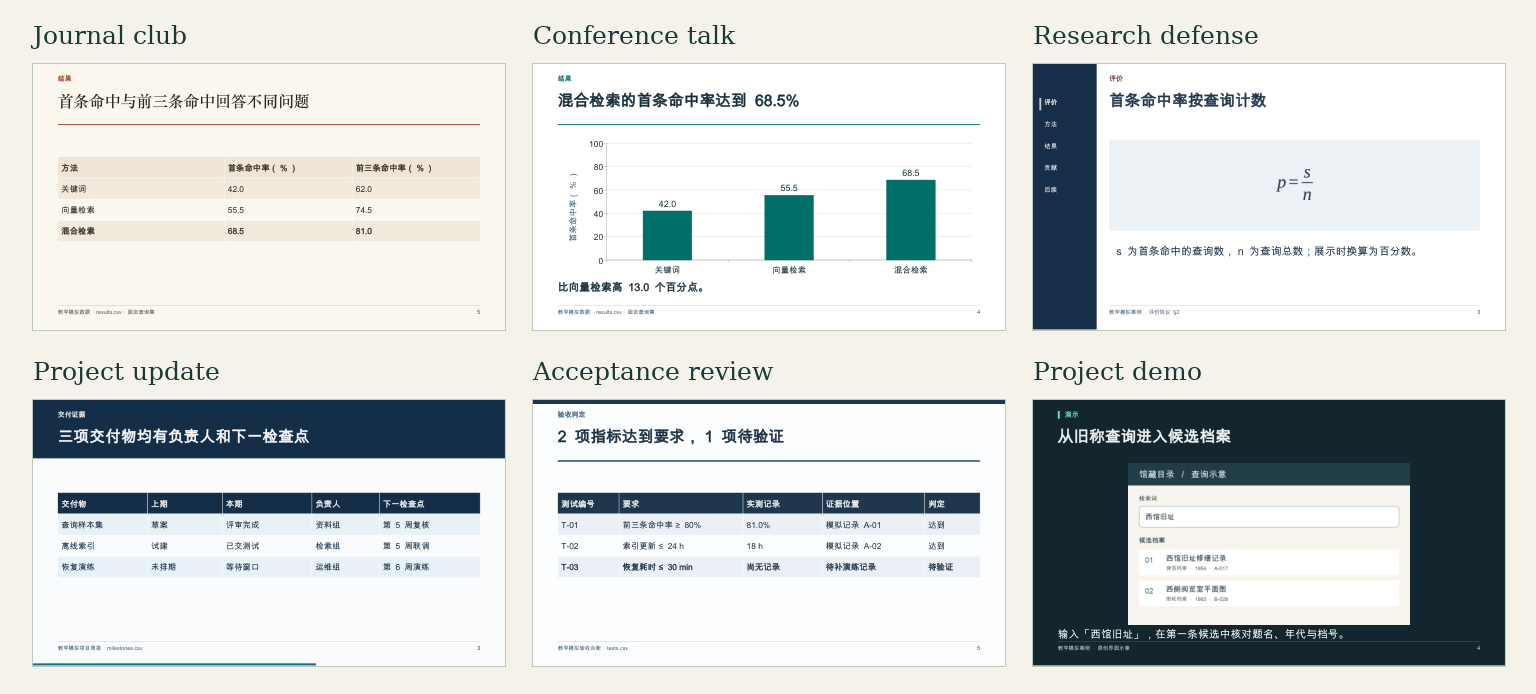
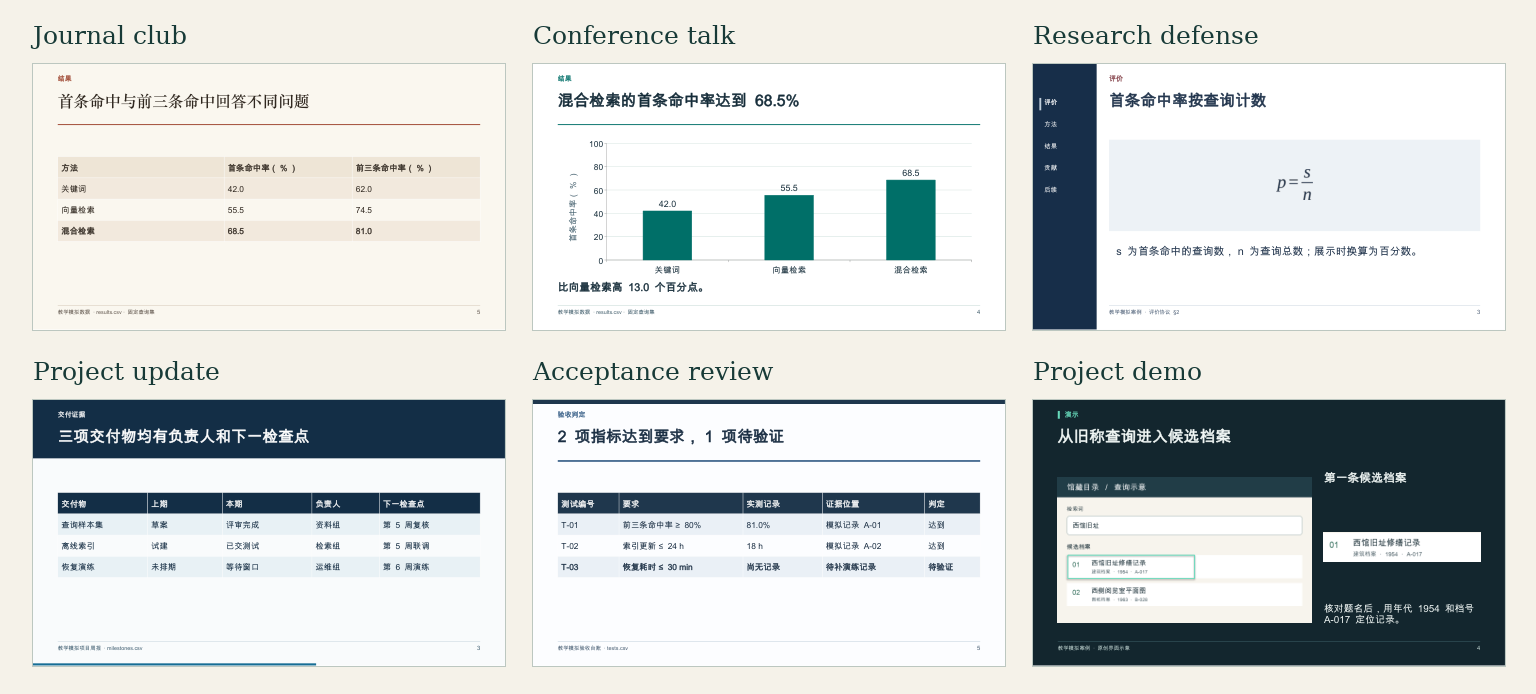
Restore visual comparisons and traceable detail views to research talks

Changed region(s): [[0.6875, 0.6657, 0.9688, 0.938]]

diff --git a/research-deck/scripts/render.py b/research-deck/scripts/render.py
@@ -36,6 +36,8 @@ LAYOUTS = (
     "contrast",
     "process",
     "figure",
+    "detail",
+    "evidence_pair",
     "video",
     "chart",
     "table",
@@ -181,6 +183,37 @@ def image_contain(slide, buf, x, y, w, h, alt):
     pic = slide.shapes.add_picture(buf, *contained_box(buf, x, y, w, h))
     pic._element.nvPicPr.cNvPr.set("descr", alt)
     return pic
+
+
+def magnified_region(slide, buf, whole, region, box, alt, color):
+    """Highlight a source rectangle and show an editable crop of the same image."""
+    if (not isinstance(region, (list, tuple)) or len(region) != 4
+            or any(type(v) not in (float, int) for v in region)):
+        raise ValueError("region 需要归一化的左、上、右、下四个坐标")
+    left, top, right, bottom = region
+    if not (0 <= left < right <= 1 and 0 <= top < bottom <= 1):
+        raise ValueError("region 超出图幅或面积为零")
+    source_w = whole.width * (right - left)
+    source_h = whole.height * (bottom - top)
+    x, y, w, h = (I(v) for v in box)
+    scale = min(w / source_w, h / source_h)
+    if scale <= 1:
+        raise ValueError("局部图幅不足以放大 region，请选择更小的区域")
+    frame = slide.shapes.add_shape(
+        MSO_SHAPE.RECTANGLE, round(whole.left + left * whole.width),
+        round(whole.top + top * whole.height), round(source_w), round(source_h),
+    )
+    frame.name = "Detail region"
+    frame.fill.background()
+    frame.line.color.rgb = rgb(color)
+    frame.line.width = Pt(2)
+    dw, dh = round(source_w * scale), round(source_h * scale)
+    buf.seek(0)
+    detail = slide.shapes.add_picture(buf, x + (w - dw) // 2, y + (h - dh) // 2, dw, dh)
+    detail.crop_left, detail.crop_top = left, top
+    detail.crop_right, detail.crop_bottom = 1 - right, 1 - bottom
+    detail._element.nvPicPr.cNvPr.set("descr", alt)
+    return detail
 
 
 def attach_formula(slide, latex, x, y, w, h, color):
@@ -730,6 +763,33 @@ class Deck:
         if movie.suffix.lower() != ".mp4" or not movie.is_file():
             raise ValueError("video 需要本地 MP4 演示片段")
         self.figure(p, movie)
+
+    def detail(self, p):
+        required(p, ["file", "alt", "source", "region", "detail_label"])
+        buf = safe_figure(self.directory / p["file"], p)
+        gap = 0.36
+        left_w = self.w * 0.60
+        right_x = self.x + left_w + gap
+        right_w = self.w - left_w - gap
+        whole = image_contain(self.slide, buf, self.x, 1.92, left_w, 4.64, p["alt"])
+        self.txt(p["detail_label"], right_x, 1.98, right_w, 0.72, 24, 18, "ink", True)
+        height = 2.74 if p.get("caption") else 3.75
+        magnified_region(self.slide, buf, whole, p["region"], (right_x, 2.79, right_w, height),
+                         p["detail_label"], self.style["accent"])
+        if p.get("caption"):
+            self.txt(p["caption"], right_x, 5.70, right_w, 0.89, 20, 17)
+
+    def evidence_pair(self, p):
+        required(p, ["left", "right"])
+        gap = 0.44
+        w = (self.w - gap) / 2
+        for x, item in ((self.x, p["left"]), (self.x + w + gap, p["right"])):
+            required(item, ["file", "alt", "heading", "source"])
+            self.txt(item["heading"], x, 1.86, w, 0.64, 24, 18, "ink", True)
+            buf = safe_figure(self.directory / item["file"], item)
+            image_contain(self.slide, buf, x, 2.58, w, 3.72 if p.get("caption") else 4.01, item["alt"])
+        if p.get("caption"):
+            self.txt(p["caption"], self.x, 6.34, self.w, 0.42, 22, 18)
 
     def figure(self, p, movie=None):
         required(p, ["file", "alt", "source"])

diff --git a/research-deck/evals/test_deck.py b/research-deck/evals/test_deck.py
@@ -131,6 +131,51 @@ class DeckChecks(unittest.TestCase):
         path.write_text(json.dumps(spec))
         self.assertNotEqual(self.cli("build", path, self.work / "bad.pptx").returncode, 0)
 
+    def test_visual_evidence_preserves_picture_regions_and_panel_sources(self):
+        src, spec = self.start("demo")
+        wide = src / "view.png"
+        tall = self.work / "second.png"
+        Image.new("RGB", (360, 160), "green").save(wide)
+        Image.new("RGB", (100, 240), "blue").save(tall)
+        spec["slides"] = [
+            {"layout": "detail", "title": "Locate the field", "file": wide.name,
+             "alt": "Complete view", "source": "Trial A", "region": [0.25, 0.1, 0.75, 0.6],
+             "detail_label": "Selected field"},
+            {"layout": "evidence_pair", "title": "Compare observations",
+             "left": {"file": wide.name, "alt": "Overview", "heading": "First", "source": "Trial A"},
+             "right": {"file": str(tall), "alt": "Second view", "heading": "Second", "source": "Trial B"}},
+        ]
+        path = src / "deck.json"
+        path.write_text(json.dumps(spec))
+        draft = self.work / "copy"
+        self.assertEqual(self.cli("draft", path, draft).returncode, 0)
+        tall.unlink()
+        output = self.work / "visual.pptx"
+        result = self.cli("build", draft / "deck.json", output)
+        self.assertEqual(result.returncode, 0, result.stderr)
+        zoom, pair = list(Presentation(output).slides)
+        whole, inset = [s for s in zoom.shapes if s._element.xpath("./p:nvPicPr")]
+        self.assertEqual(whole.image.sha1, inset.image.sha1)
+        self.assertEqual((inset.crop_left, inset.crop_top, inset.crop_right, inset.crop_bottom),
+                         (0.25, 0.1, 0.25, 0.4))
+        frame = next(s for s in zoom.shapes if s.name == "Detail region")
+        self.assertAlmostEqual(frame.left, whole.left + whole.width / 4, delta=1)
+        self.assertAlmostEqual(frame.top, whole.top + whole.height / 10, delta=1)
+        self.assertAlmostEqual(inset.width / inset.height, frame.width / frame.height, places=5)
+        self.assertGreater(inset.width, frame.width)
+        left, right = [s for s in pair.shapes if s._element.xpath("./p:nvPicPr")]
+        self.assertLess(left.left + left.width, right.left)
+        self.assertAlmostEqual(left.width / left.height, 360 / 160, places=5)
+        self.assertAlmostEqual(right.width / right.height, 100 / 240, places=5)
+        self.assertIn("Trial A", pair.notes_slide.notes_text_frame.text)
+        self.assertIn("Trial B", pair.notes_slide.notes_text_frame.text)
+        copied = draft / "deck.json"
+        invalid = json.loads(copied.read_text())
+        for rect in ([0, 0.5, 1, 0.5], [0, 0, 1.1, 1], [0, 1, 1], [0, 0, 1, 1]):
+            invalid["slides"][0]["region"] = rect
+            copied.write_text(json.dumps(invalid))
+            self.assertNotEqual(self.cli("build", copied, self.work / "bad.pptx").returncode, 0)
+
     def test_portable_draft_carries_external_and_nested_assets(self):
         src, spec = self.start("conference")
         local = src / "art" / "plate.png"

diff --git a/research-deck/scripts/deck.py b/research-deck/scripts/deck.py
@@ -12,6 +12,7 @@ from contextlib import contextmanager
 from pathlib import Path
 from zipfile import BadZipFile
 
+from data import required
 from native import fill, inventory
 from render import ASSETS, LAYOUTS, MODES, STYLES, Deck
 
@@ -59,6 +60,11 @@ def asset_fields(spec):
             yield page, "file"
         if page.get("layout") == "video":
             yield page, "poster"
+        if page.get("layout") == "evidence_pair":
+            required(page, ["left", "right"])
+            for panel in (page["left"], page["right"]):
+                required(panel, ["file"])
+                yield panel, "file"
         if "plate" in page:
             yield page["plate"], "file"
     stationery = spec.get("stationery", {})

diff --git a/research-deck/scripts/data.py b/research-deck/scripts/data.py
@@ -167,6 +167,11 @@ class Sources:
         if resolved.get("plate"):
             required(resolved["plate"], ["source"])
             citations.append(resolved["plate"]["source"])
+        if page["layout"] == "evidence_pair":
+            required(resolved, ["left", "right"])
+            for panel in (resolved["left"], resolved["right"]):
+                required(panel, ["source"])
+                citations.append(panel["source"])
         if resolved.get("source"):
             citations.insert(0, resolved["source"])
         resolved["citations"] = list(dict.fromkeys(citations))

diff --git a/research-deck/references/library.md b/research-deck/references/library.md
@@ -13,6 +13,21 @@
 | 研制总结与验收 | 哪些指标能签署，哪些证据还缺？ | 范围与交付物 → 研制阶段 → 环境与基线 → 条款、测试编号、实测、记录和判定 → 遗留项 | [acceptance](../assets/starters/acceptance.json) |
 | 项目路演与演示 | 谁用系统做什么？哪一步已实际跑通？ | 一次具体任务 → 使用路径 → 界面或现场证据 → 效果与下一次试用 | [demo](../assets/starters/demo.json) |
 
+## 按证据关系选页型
+
+同一场报告里，几个结果可以共用坐标和颜色。讲解任务变成定位、追溯或解释因果顺序时，版面也应给观众相应的线索。
+
+| 现场要讲清的关系 | 页上如何呈现 | 保留什么 |
+|---|---|---|
+| 一个字段位于哪里，它说明什么 | `detail` 用原图的实际位置框选字段，旁边放大同一块内容 | 选中的对象、字段名、数值和单位 |
+| 同一实验修改前后发生什么变化 | `evidence_pair` 并列两张带条件名的原图；实验是连续过程时可嵌入原回放 | 同一观察角度、时间点和两张图各自的出处 |
+| 哪个条件对应哪组结果 | 将场景照片与结果图的类别按同一顺序排列 | 相同的类别名、基线和量纲；照片只展示实验条件 |
+| 哪种策略在哪个子组改变最多 | 两种策略横向排开，各子组纵向对齐；用可编辑表格或同尺度分图 | 同一行的前后数值与平均值的计算口径 |
+| 一项方案如何被提出、复核和修订 | 按角色或阶段分行，把产物、审查意见和下一次交接画在同一阅读路径上 | 谁审什么、产物交给谁；只在材料支持时画反馈箭头 |
+| 当前演示属于完整流程的哪一段 | 将操作回放与精简工序并置，用海报帧说明当前动作 | 原视频与实际设备名，演示片段覆盖的范围 |
+
+检查整套缩略图时，连续几页若都变成「大图配一句话」，逐页回看原稿中是否丢了对照条件、来源位置或前后工序。复杂页优先删掉重复解释，再决定哪些明细适合移入附录。
+
 ## 八种通用视觉风格
 
 | 风格 ID | 识别特征 | 合适的页面和取舍 |

diff --git a/research-deck/SKILL.md b/research-deck/SKILL.md
@@ -15,7 +15,7 @@ description: AwesomePPT creates editable, evidence-linked academic and project p
 
 用户认为成稿的版式仍不及作者原版时，优先回到原生 PPTX 副本，保留其母版与关键页的阅读顺序。将原版和调整后的投影 PDF 传给 `compare`，按讲解内容指定对应页，检查关键图、字幕、数据标签在两版中的实际尺寸。
 
-用于现场放映时，先给每页定一个观众需要看清的对象。横向方法图、操作回放或结果图可用 `caption_position: below`，把一句读图说明放在图下。图表已给出的数值可移出正文，完整基准表和需要放大查阅的工作流留作答疑。字号和裁图按[投影视图的检查方法](references/reference-led.md#投影字号与图幅)复核。
+用于现场放映时，先明确观众这一页要认出什么、比较什么或沿哪条路径读。要定位字段，用 `detail` 同时显示界面全景和局部；要辨认两种实验状态，用 `evidence_pair` 并置有出处的画面；讲单幅方法图时可用 `caption_position: below`。原稿中解释分工、反馈或分组差异的关系应出现在主讲页，完整节点清单和大表可供答疑。先按[证据关系选页型](references/library.md#按证据关系选页型)，再按[投影视图的检查方法](references/reference-led.md#投影字号与图幅)调字号和图幅。
 
 1. 读取用户提供的论文、项目材料、数据和现有稿件。记录每个核心判断能追溯到的页码、图表编号、工作表或测试记录。论文先找研究问题、关键图、主结果及反例；项目先找承诺、当前证据、责任人、遗留项和下一次决定。只有标题或提纲时，可以直接做概念稿，明确标出缺少证据的位置。
 2. 从[模式与风格库](references/library.md)选一个起点。参考既有 PPT 时，分清「借用叙事或版式」与「沿用这个文件改字」。前者用生成路线，后者用下方的模板编辑路线。确定一个讲完后听众应能回答的问题，然后按时长安排主线、讨论和备份页。

diff --git a/research-deck/references/spec.md b/research-deck/references/spec.md
@@ -25,6 +25,8 @@
 | contrast | 对比两种方案、贡献或条件 | left 与 right 各有 heading、text |
 | process | 方法、路线、操作步骤 | steps 为 2–4 组 heading、text |
 | figure | 论文原图、系统界面、照片 | file、alt、source；可设 caption。PDF 图件须有 pdf_page（从 1 起）与 crop（左、上、右、下归一化坐标）。位图直接按比例置入 |
+| detail | 界面字段、仪器读数、方法图的局部 | file、alt、source、region、detail_label，可设 caption。region 是相对于已显示图幅的归一化左、上、右、下坐标。整图保留选区框，局部使用同一张图片的可编辑裁切。PDF 先按 pdf_page 和 crop 取图 |
+| evidence_pair | 同一实验的两个时点、条件或观测 | left、right 各含 heading、file、alt、source；每边可单独指定 PDF 页和裁切区域。两幅图在等宽区域内按原比例显示，可用 caption 写一句共同的观察结论 |
 | video | 实验轨迹对照、设备操作或产品演示 | file 为本地 MP4，poster 为同画幅的代表帧，alt 说明画面，source 记录出处。可用 caption 提示观众应观察的事件。PPTX 内嵌片段，PDF 可从静态帧读图 |
 | chart | 数值对比、趋势 | dataset、columns；可设 rows、reading、axis_title、min/max、decimals（0–6）。kind 选 column 或 line，最多 8 个类别、3 个系列 |
 | table | 结果对照、里程碑、逐项验收 | dataset、columns；可设 rows、widths（含行键列）、highlight（行键），或 highlight_where（按所示列的 column、equals 匹配状态）。每页最多 9 行数据、6 列 |
